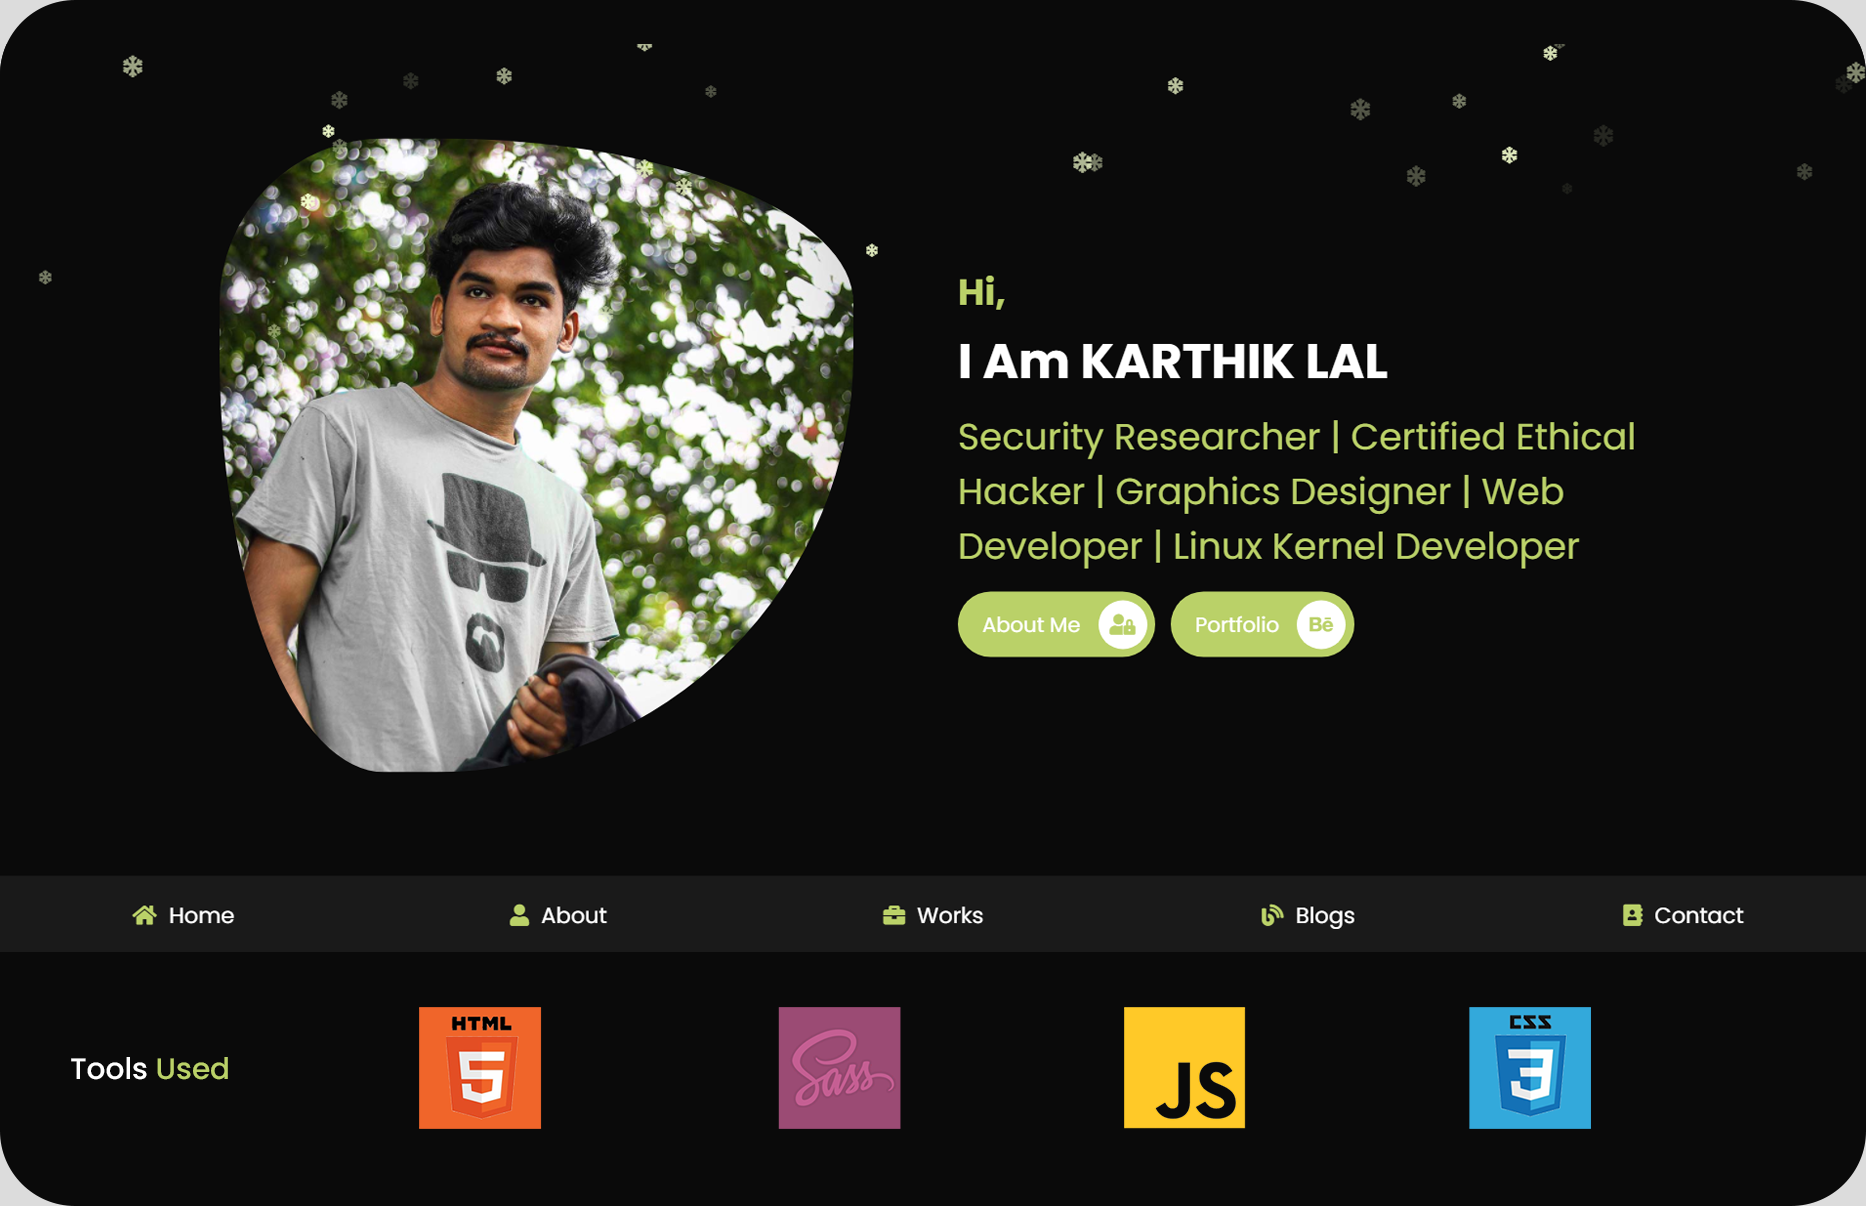
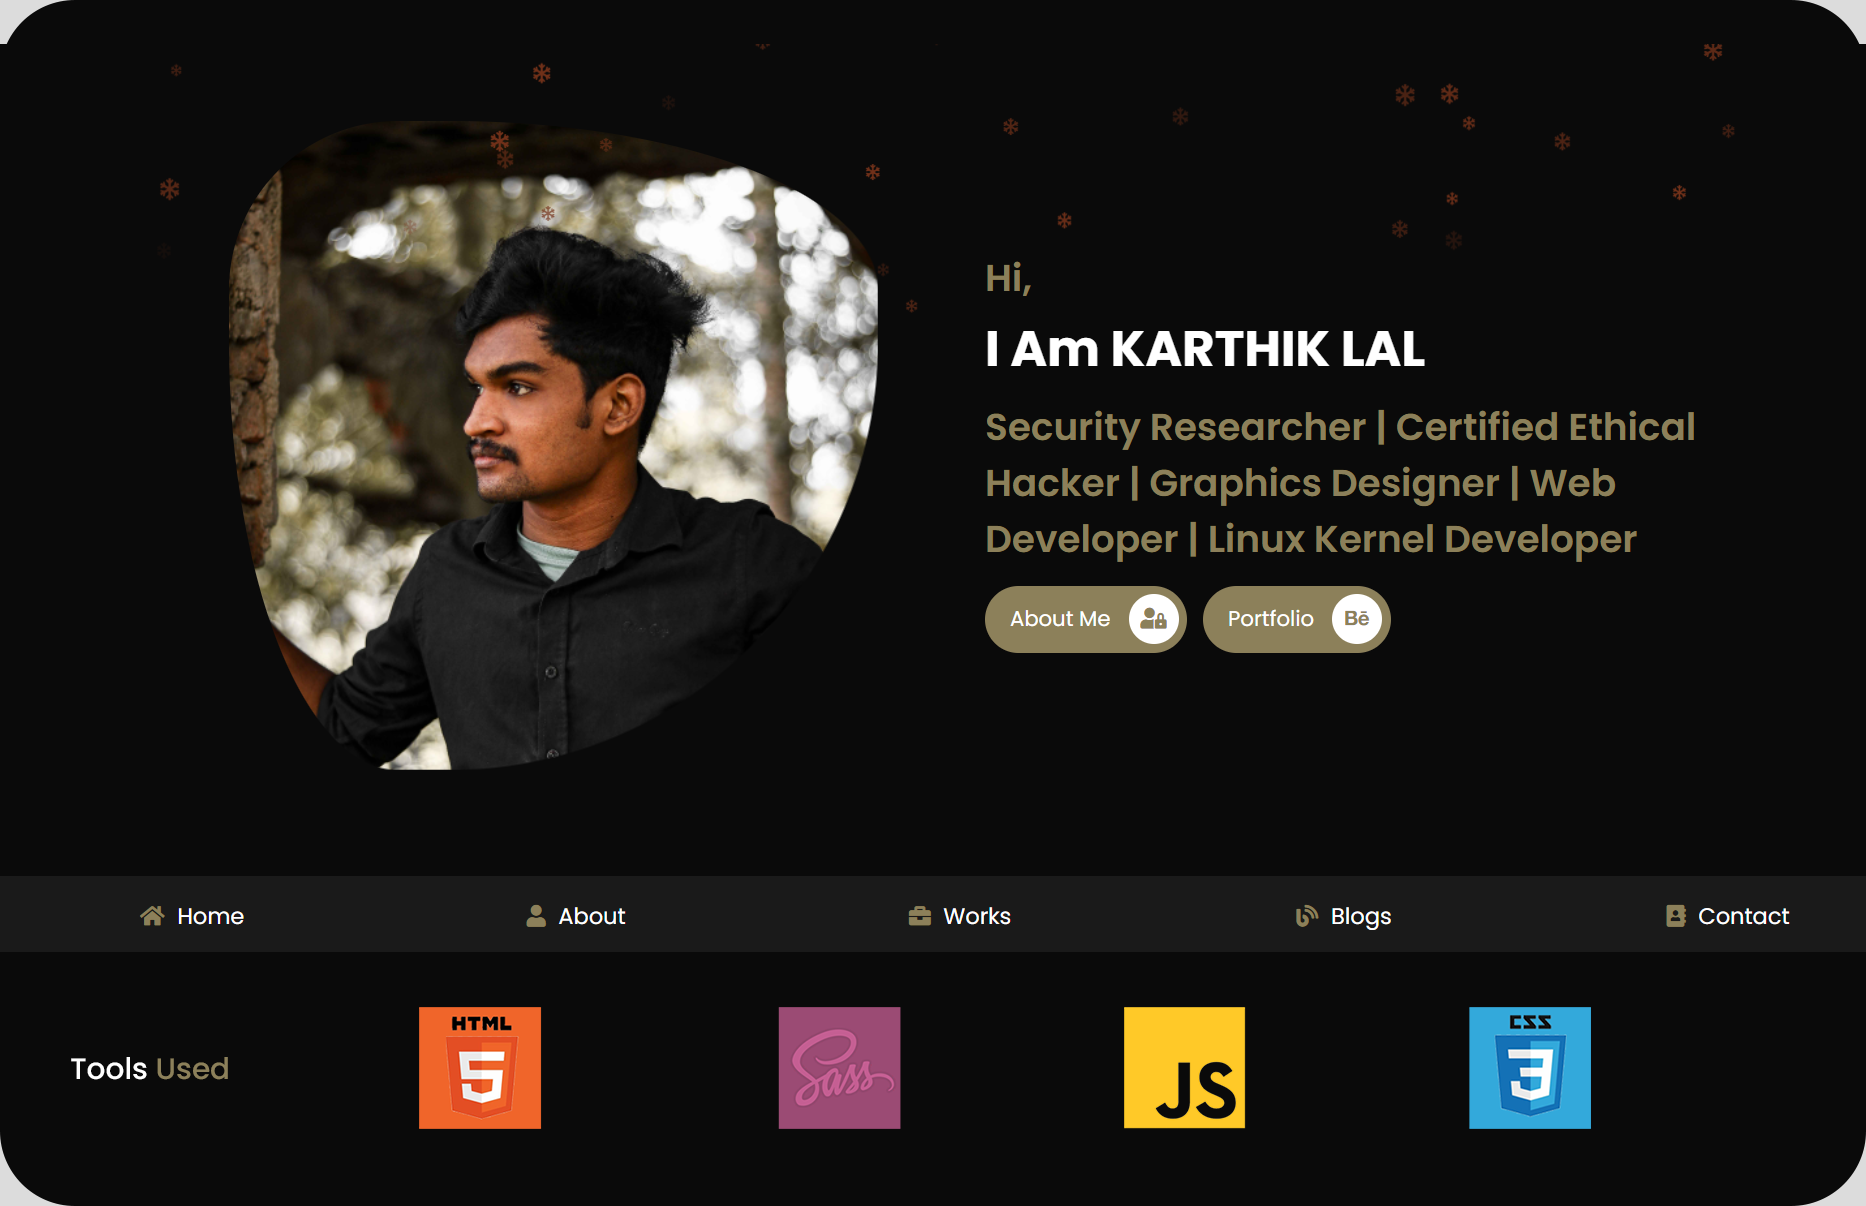
portfolio: update DP and accent color and remove all unwanted line_of_codes
* Welcome new bugs
* Removed call-action-button from contact.html page
* Fixed smooth-scrolling animation on js_side
* Added drop-shadow:hover action for .home .image (let it be)
* More ? (forgot)

diff --git a/css/style.css b/css/style.css
@@ -11,6 +11,14 @@
   color: inherit;
 }
 
+/* 
+ALT_COLOR_CODES
+background: #8C805A
+.btn_color: #8C805A
+.btn_hover_color: #514a30
+snowflake_background_color: #733119
+*/
+
 html {
   font-size: 62.4%;
   overflow-x: hidden;
@@ -26,7 +34,7 @@ html::-webkit-scrollbar-track {
 }
 
 html::-webkit-scrollbar-thumb {
-  background: #2bd3ed;
+  background: #8C805A;
   border-radius: 5rem;
 }
 
@@ -57,7 +65,7 @@ section {
   margin-top: 1rem;
   margin-right: 0.5rem;
   border-radius: 5rem;
-  background: #2bd3ed;
+  background: #8C805A;
   padding: .7rem;
   font-size: 1.7rem;
   color: #fff;
@@ -71,7 +79,7 @@ section {
   font-size: 1.7rem;
   text-align: center;
   background: #fff;
-  color: #2bd3ed;
+  color: #8C805A;
   border-radius: 50%;
   margin-left: 1rem;
   -webkit-transition: .3s linear;
@@ -79,7 +87,7 @@ section {
 }
 
 .btn:hover {
-  background: #ff0198;
+  background: #514a30;
   color: #fff;
   transition: .5s;
 }
@@ -92,7 +100,7 @@ section {
   margin-top: 1rem;
   margin-left: 0.5rem;
   border-radius: 4rem;
-  background: #2bd3ed;
+  background: #8C805A;
   padding: .7rem;
   font-size: 1.7rem;
   color: #fff;
@@ -106,7 +114,7 @@ section {
   font-size: 1.7rem;
   text-align: center;
   background: #fff;
-  color: #2bd3ed;
+  color: #8C805A;
   border-radius: 50%;
   margin-left: 1rem;
   -webkit-transition: .2s linear;
@@ -114,7 +122,7 @@ section {
 }
 
 .btn_2:hover {
-  background: #ff0198;
+  background: #514a30;
   color: #fff;
   transition: .5s;
 }
@@ -150,12 +158,12 @@ section {
 }
 
 .navbar a i {
-  color: #2bd3ed;
+  color: #8C805A;
   padding-right: .5rem;
 }
 
 .navbar a:hover {
-  background: #2bd3ed;
+  background: #8C805A;
   padding-bottom: 4rem;
 }
 
@@ -193,6 +201,10 @@ section {
   border-radius: 26% 66% 66% 26% / 26% 26% 66% 66%;
 }
 
+.home .image img:hover{
+  filter: drop-shadow(7px 7px 12px #514a30);
+}
+
 .home .content {
   -webkit-box-flex: 1;
       -ms-flex: 1 1 42rem;
@@ -207,9 +219,10 @@ section {
 
 .home .content span {
   font-size: 3rem;
-  color: #2bd3ed;
+  color: #8C805A;
   padding: .5rem 0;
   display: block;
+  font-weight: 550;
 }
 
 .home .content p {
@@ -310,7 +323,7 @@ section {
 
 .about .row .count-container .box h3 {
   font-size: 5rem;
-  color: #2bd3ed;
+  color: #8C805A;
 }
 
 .about .row .count-container .box p {
@@ -337,7 +350,7 @@ section {
 }
 
 .skills .box-container .box:hover {
-  background: #2bd3ed;
+  background: #8C805A;
   -webkit-transform: scale(1);
   transform: scale(1.1);
   -webkit-transition: .2s linear;
@@ -387,7 +400,7 @@ section {
   line-height: 4.5rem;
   font-size: 1.7rem;
   border-radius: 50%;
-  background: #2bd3ed;
+  background: #8C805A;
   color: #fff;
   text-align: center;
   position: absolute;
@@ -496,7 +509,7 @@ section {
 
 .portfolio .box-container .box .content a {
   font-size: 2rem;
-  color: #2bd3ed;
+  color: #8C805A;
 }
 
 .portfolio .box-container .box .content a:hover {
@@ -562,12 +575,12 @@ section {
 }
 
 .blogs .box-container .box .content .icons a:hover {
-  color: #2bd3ed;
+  color: #8C805A;
 }
 
 .blogs .box-container .box .content .icons a i {
   padding-right: .5rem;
-  color: #2bd3ed;
+  color: #8C805A;
 }
 
 .blogs .box-container .box .content h3 {
@@ -627,7 +640,7 @@ section {
 
 .contact .row .info-container .box-container .box i {
   font-size: 3rem;
-  color: #2bd3ed;
+  color: #8C805A;
 }
 
 .contact .row .info-container .box-container .box h3 {
@@ -649,7 +662,7 @@ section {
 }
 
 .contact .row .info-container .share a:hover {
-  background: #2bd3ed;
+  background: #8C805A;
   transition: .4s;
 }
 
@@ -698,7 +711,7 @@ section {
 }
 
 .contact .row form .btn:hover {
-  background: #1a1a1a;
+  background: #514a30;
   color: #fff;
 }
 
@@ -768,7 +781,7 @@ section {
   position: fixed;
   top: calc(50% - 30px);
   left: calc(50% - 30px);
-  border: 6px solid #2bd3ed;
+  border: 6px solid #8C805A;
   border-top-color: #fff;
   border-radius: 50%;
   width: 60px;
@@ -844,7 +857,7 @@ section {
   right: 100%;
   height: 100%;
   width: 100%;
-  background: #2bd3ed;
+  background: #8C805A;
 }
 
 .pace.pace-inactive {
@@ -872,7 +885,7 @@ section {
 
 /* SNOW-FLAKE */
 .fa-snowflake {
-	color: #ff0198;
+	color: #733119;
 	position: absolute;
 	top: -42px;
 	animation: fall linear forwards;

diff --git a/contact.html b/contact.html
@@ -64,14 +64,6 @@
                 </div>
             </div>
 
-            <div class="box">
-                <i class="fas fa-phone"></i>
-                <div class="info">
-                    <h3>Call me :</h3>
-                    <p>Better Contact Me on Telegram</p>
-                </div>
-            </div>
-
         </div>
 
         <div class="share">
